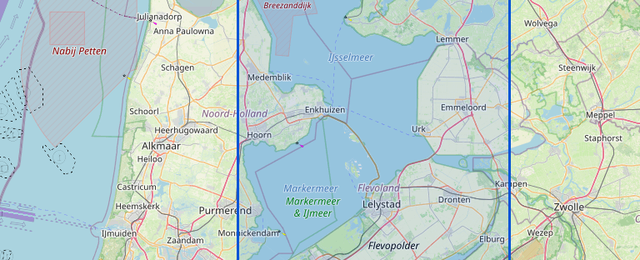
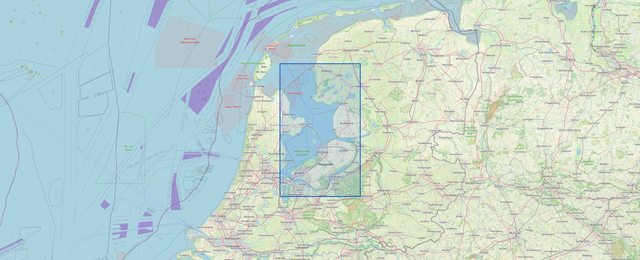
Fix area images: bbox always in view, ModelArea shows all sub-areas
- Expand viewport longitude before tile fetch so the canvas is always wide
  enough for the 640:260 crop (fixes Channel and LakeIJssel clipping)
- ModelArea image now draws all sub-area bboxes as an overview

diff --git a/scripts/generate_area_images.py b/scripts/generate_area_images.py
@@ -90,7 +90,12 @@ def stitch_layer(tx1, tx2, ty1, ty2, zoom, url_tpl, transparent_bg=False):
 
 # ── Image generation ─────────────────────────────────────────────────────────
 
-def generate_area_image(lon_w, lon_e, lat_s, lat_n, out_path, draw_box=True):
+def generate_area_image(lon_w, lon_e, lat_s, lat_n, out_path, draw_boxes=None):
+    """
+    draw_boxes: None or a list of (lon_w, lon_e, lat_s, lat_n) tuples to draw.
+                Pass [(lon_w, lon_e, lat_s, lat_n)] for a single bbox,
+                or a list of tuples for multiple (ModelArea overview).
+    """
     pad_lon = (lon_e - lon_w) * 0.40
     pad_lat = (lat_n - lat_s) * 0.40
     vlon_w = lon_w - pad_lon
@@ -99,6 +104,17 @@ def generate_area_image(lon_w, lon_e, lat_s, lat_n, out_path, draw_box=True):
     vlat_n = lat_n + pad_lat
 
     z = choose_zoom(vlon_w, vlon_e, vlat_s, vlat_n, OUT_W, OUT_H)
+
+    # Before fetching tiles, ensure the viewport is wide enough for the output
+    # aspect ratio. Tall-narrow areas (e.g. Channel at 50°N) need extra
+    # horizontal canvas or the bbox will fall outside the crop.
+    ty_span = lat_to_ty(vlat_s, z) - lat_to_ty(vlat_n, z)
+    tx_span = lon_to_tx(vlon_e, z) - lon_to_tx(vlon_w, z)
+    needed_tx_span = ty_span * OUT_W / OUT_H
+    if needed_tx_span > tx_span:
+        extra_lon = (needed_tx_span - tx_span) / 2**z * 360
+        vlon_w -= extra_lon / 2
+        vlon_e += extra_lon / 2
 
     tx1 = lon_to_tx(vlon_w, z)
     tx2 = lon_to_tx(vlon_e, z)
@@ -118,7 +134,7 @@ def generate_area_image(lon_w, lon_e, lat_s, lat_n, out_path, draw_box=True):
     seamarks = stitch_layer(tx1, tx2, ty1, ty2, z, sea_tpl, transparent_bg=True)
     base = Image.alpha_composite(base, seamarks)
 
-    # Convert bbox coords → pixel coords on canvas
+    # Coord → pixel helpers
     canvas_lon_w = tx_to_lon(tx1, z)
     canvas_lon_e = tx_to_lon(tx2 + 1, z)
     canvas_lat_n = ty_to_lat(ty1, z)
@@ -129,42 +145,52 @@ def generate_area_image(lon_w, lon_e, lat_s, lat_n, out_path, draw_box=True):
     def lpx(lon): return (lon - canvas_lon_w) / lon_span * cw
     def tpx(lat): return (canvas_lat_n - lat) / lat_span * ch
 
-    x0, y0 = lpx(lon_w), tpx(lat_n)
-    x1, y1 = lpx(lon_e), tpx(lat_s)
-
-    if draw_box:
-        # Semi-transparent fill
+    # Draw bounding box(es)
+    if draw_boxes:
         overlay = Image.new("RGBA", (cw, ch), (0, 0, 0, 0))
-        ImageDraw.Draw(overlay).rectangle([x0, y0, x1, y1], fill=(*PRIMARY, 30))
+        ov_draw = ImageDraw.Draw(overlay)
+        for bx0, bx1, by0, by1 in [
+            (lpx(b[0]), lpx(b[1]), tpx(b[3]), tpx(b[2])) for b in draw_boxes
+        ]:
+            ov_draw.rectangle([bx0, by0, bx1, by1], fill=(*PRIMARY, 30))
         base = Image.alpha_composite(base, overlay)
-        # Solid outline
-        ImageDraw.Draw(base).rectangle([x0, y0, x1, y1], outline=(*PRIMARY, 255), width=3)
+        draw = ImageDraw.Draw(base)
+        for bx0, bx1, by0, by1 in [
+            (lpx(b[0]), lpx(b[1]), tpx(b[3]), tpx(b[2])) for b in draw_boxes
+        ]:
+            draw.rectangle([bx0, by0, bx1, by1], outline=(*PRIMARY, 255), width=3)
 
-    # Crop centred on bbox with generous context, then resize to output.
-    # The crop box must have exactly OUT_W:OUT_H aspect ratio before resize
-    # to avoid stretching the map.
-    cx = (x0 + x1) / 2
-    cy = (y0 + y1) / 2
-    bbox_w = (x1 - x0) * 1.6
-    bbox_h = (y1 - y0) * 1.6
+    # Crop to the viewport extent (guaranteed to contain all bboxes), then
+    # adjust to output aspect ratio and resize. Using the viewport rather than
+    # bbox*factor ensures the bbox never falls outside the crop for narrow areas.
     aspect = OUT_W / OUT_H
-    cw2 = max(bbox_w, bbox_h * aspect)
-    ch2 = cw2 / aspect
+    vx0, vy0 = lpx(vlon_w), tpx(vlat_n)
+    vx1, vy1 = lpx(vlon_e), tpx(vlat_s)
+    view_w = vx1 - vx0
+    view_h = vy1 - vy0
+    cx = (vx0 + vx1) / 2
+    cy = (vy0 + vy1) / 2
 
-    # Clamp to canvas, then restore aspect ratio by expanding the short side
+    if view_w / view_h > aspect:
+        # Viewport wider than output — match width, expand height
+        cw2, ch2 = view_w, view_w / aspect
+    else:
+        # Viewport taller than output — match height, expand width
+        ch2, cw2 = view_h, view_h * aspect
+
     left   = max(0, cx - cw2 / 2)
     top    = max(0, cy - ch2 / 2)
     right  = min(cw, cx + cw2 / 2)
     bottom = min(ch, cy + ch2 / 2)
+
+    # After clamping, trim the longer axis to restore aspect ratio
     actual_w = right - left
     actual_h = bottom - top
     if actual_w / actual_h > aspect:
-        # Too wide — trim width to match height
         excess = actual_w - actual_h * aspect
         left  += excess / 2
         right -= excess / 2
     else:
-        # Too tall — trim height to match width
         excess = actual_h - actual_w / aspect
         top    += excess / 2
         bottom -= excess / 2
@@ -202,20 +228,26 @@ def process_model(model_id):
     all_areas = meta["areas"]
     print(f"  {len(all_areas)} areas")
 
+    # Precompute all sub-area bboxes for the ModelArea overview
+    sub_bboxes = [
+        tuple(map(float, a["bbox"].split(",")))
+        for a in all_areas if a.get("bbox")
+    ]
+
     for area in all_areas:
         key = area["key"]
         out_file = img_dir / f"{key}.png"
 
         if area.get("bbox"):
             lon_w, lon_e, lat_s, lat_n = map(float, area["bbox"].split(","))
-            draw_box = True
+            draw_boxes = [(lon_w, lon_e, lat_s, lat_n)]
         else:
-            # ModelArea: use the union of all other areas, no bbox rectangle
+            # ModelArea: show full coverage with all sub-area bboxes drawn
             lon_w, lon_e, lat_s, lat_n = union_bbox(all_areas)
-            draw_box = False
+            draw_boxes = sub_bboxes
 
         print(f"  [{key}] {'bbox=' + area['bbox'] if area.get('bbox') else 'union bbox'}")
-        generate_area_image(lon_w, lon_e, lat_s, lat_n, out_file, draw_box=draw_box)
+        generate_area_image(lon_w, lon_e, lat_s, lat_n, out_file, draw_boxes=draw_boxes)
 
 
 def main():
